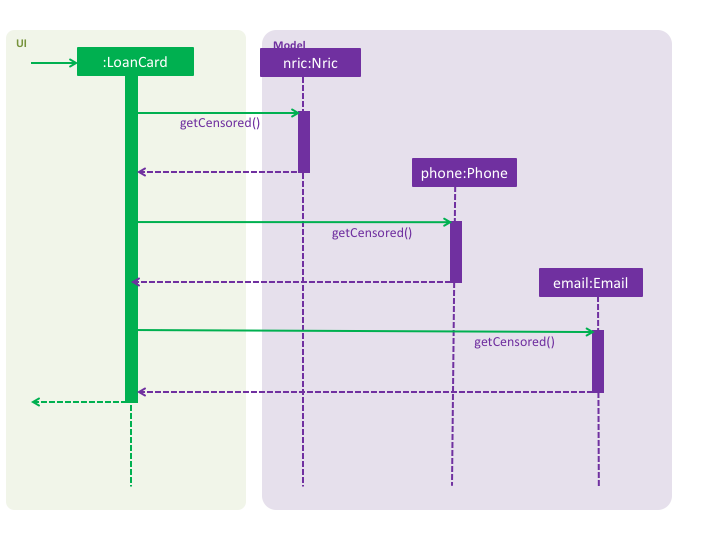
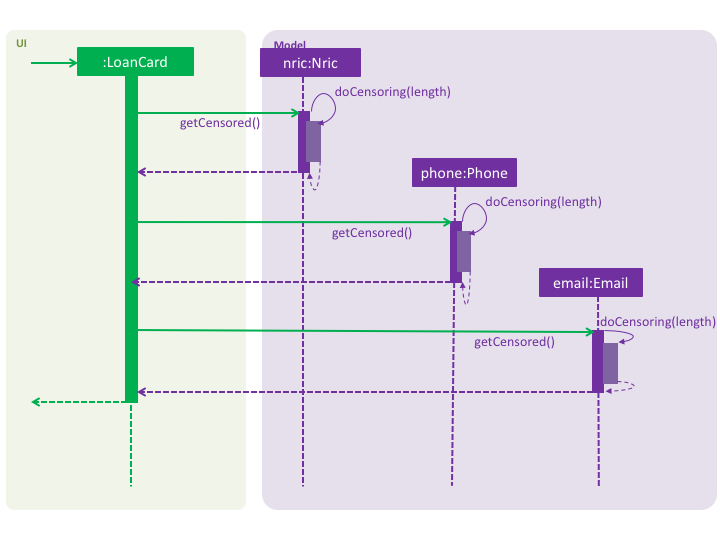
Rebuild pages at 4e5076023cf2ac85eae762c53f6b8986080c0df9

diff --git a/DeveloperGuide.html b/DeveloperGuide.html
@@ -1415,10 +1415,19 @@ Example: The customer&#8217;s <code>Nric</code> as stored in the database is <co
 <p><code>Nric#getCensored()</code>&#8201;&#8212;&#8201;censor the Nric value and hide the first five digital numbers. Then it returns the censored String.</p>
 </li>
 <li>
+<p><code>Nric#doCensoring(int length)</code>&#8201;&#8212;&#8201;Take in the length of the Nric String and return the censored part ("x" part) according to the length.</p>
+</li>
+<li>
 <p><code>Phone#getCensored()</code>&#8201;&#8212;&#8201;censor the phone number and hide the first five digital numbers. Then it returns the censored String.</p>
 </li>
 <li>
+<p><code>Phone#doCensoring(int length)</code>&#8201;&#8212;&#8201;Take in the length of the Phone String and return the censored part ("x" part) according to the length.</p>
+</li>
+<li>
 <p><code>Email#getCensored()</code>&#8201;&#8212;&#8201;censor the email address and hide every characters except the last two characters in the local-part and the domain.</p>
+</li>
+<li>
+<p><code>Email#doCensoring(int length)</code>&#8201;&#8212;&#8201;Take in the length of the Email String and return the censored part ("x" part) according to the length.</p>
 </li>
 </ul>
 </div>
@@ -1435,6 +1444,7 @@ For example: <code>name.setText(loan.getName().value);</code> will directly assi
 </div>
 <div class="paragraph">
 <p>However, the values of <code>Nric</code>, <code>Phone</code> and <code>Email</code> need censoring before assigning their values, so they will call their own <code>getCensored()</code> method in their class.<br>
+<code>getCensored()</code> in each of these class will call their corresponding <code>doCensoring(int)</code> method. Then combine the censored part and remain part and return.<br>
 For example: <code>phone.setText(loan.getPhone().getCensored().value);</code> will censor the value of the phone String of this loan and then assign the censored value to the <code>phone</code> label.</p>
 </div>
 <div class="paragraph">
@@ -1449,7 +1459,7 @@ For example: <code>phone.setText(loan.getPhone().getCensored().value);</code> wi
 <div class="sect3">
 <h4 id="design-considerations-5"><a class="link" href="#design-considerations-5">3.8.2. Design Considerations</a></h4>
 <div class="paragraph">
-<p><strong>Aspect: How to execute getCensored()</strong></p>
+<p><strong>Aspect: How to execute getCensored() and doCensoring(int)</strong></p>
 </div>
 <div class="ulist">
 <ul>
@@ -2603,4 +2613,4 @@ Expected: Similar to previous.</p>
 </div>
 </div>
 </div>
-</div></div><div id="footer"><div class="container"><div id="footer-text">Last updated 2018-10-25 10:19:09 UTC</div></div></div></body></html>
+</div></div><div id="footer"><div class="container"><div id="footer-text">Last updated 2018-10-25 11:33:35 UTC</div></div></div></body></html>

diff --git a/team/Xiaohang.html b/team/Xiaohang.html
@@ -544,4 +544,4 @@ If the <code>currentStatePointer</code> is at index <code>loanBookStateList.size
 <p><em>{Optionally, you may include other projects in your portfolio.}</em></p>
 </div>
 </div>
-</div></div><div id="footer"><div class="container"><div id="footer-text">Last updated 2018-10-25 10:19:09 UTC</div></div></div></body></html>
+</div></div><div id="footer"><div class="container"><div id="footer-text">Last updated 2018-10-25 11:33:35 UTC</div></div></div></body></html>

diff --git a/team/fongyuan.html b/team/fongyuan.html
@@ -550,4 +550,4 @@ If the <code>currentStatePointer</code> is at index <code>loanBookStateList.size
 <p><em>{Optionally, you may include other projects in your portfolio.}</em></p>
 </div>
 </div>
-</div></div><div id="footer"><div class="container"><div id="footer-text">Last updated 2018-10-25 10:19:09 UTC</div></div></div></body></html>
+</div></div><div id="footer"><div class="container"><div id="footer-text">Last updated 2018-10-25 11:33:35 UTC</div></div></div></body></html>

diff --git a/team/johndoe.html b/team/johndoe.html
@@ -446,4 +446,4 @@ If the <code>currentStatePointer</code> is at index <code>loanBookStateList.size
 <p><em>{Optionally, you may include other projects in your portfolio.}</em></p>
 </div>
 </div>
-</div></div><div id="footer"><div class="container"><div id="footer-text">Last updated 2018-10-25 10:19:09 UTC</div></div></div></body></html>
+</div></div><div id="footer"><div class="container"><div id="footer-text">Last updated 2018-10-25 11:33:35 UTC</div></div></div></body></html>

diff --git a/team/weineng.html b/team/weineng.html
@@ -446,4 +446,4 @@ If the <code>currentStatePointer</code> is at index <code>loanBookStateList.size
 <p><em>{Optionally, you may include other projects in your portfolio.}</em></p>
 </div>
 </div>
-</div></div><div id="footer"><div class="container"><div id="footer-text">Last updated 2018-10-25 10:19:09 UTC</div></div></div></body></html>
+</div></div><div id="footer"><div class="container"><div id="footer-text">Last updated 2018-10-25 11:33:35 UTC</div></div></div></body></html>

diff --git a/ContactUs.html b/ContactUs.html
@@ -12,4 +12,4 @@
 <p><strong>Email us</strong> : You can also reach us at <code>weineng [at] comp.nus.edu.sg</code></p>
 </li>
 </ul>
-</div></div><div id="footer"><div class="container"><div id="footer-text">Last updated 2018-10-25 10:19:09 UTC</div></div></div></body></html>
+</div></div><div id="footer"><div class="container"><div id="footer-text">Last updated 2018-10-25 11:33:35 UTC</div></div></div></body></html>

diff --git a/LearningOutcomes.html b/LearningOutcomes.html
@@ -542,4 +542,4 @@ class gives some examples of how to use <em>Equivalence Partitions</em>, <em>Bou
 </div>
 </div>
 </div>
-</div></div><div id="footer"><div class="container"><div id="footer-text">Last updated 2018-10-25 10:19:09 UTC</div></div></div></body></html>
+</div></div><div id="footer"><div class="container"><div id="footer-text">Last updated 2018-10-25 11:33:35 UTC</div></div></div></body></html>

diff --git a/UsingGradle.html b/UsingGradle.html
@@ -255,4 +255,4 @@ See <code>build.gradle</code> &#8594; <code>allprojects</code> &#8594; <code>dep
 </ul>
 </div>
 </div>
-</div></div><div id="footer"><div class="container"><div id="footer-text">Last updated 2018-10-25 10:19:09 UTC</div></div></div></body></html>
+</div></div><div id="footer"><div class="container"><div id="footer-text">Last updated 2018-10-25 11:33:35 UTC</div></div></div></body></html>

diff --git a/UsingNetlify.html b/UsingNetlify.html
@@ -123,4 +123,4 @@ The publish directory is the directory in which the built HTML documentation res
 </ol>
 </div>
 </div>
-</div></div><div id="footer"><div class="container"><div id="footer-text">Last updated 2018-10-25 10:19:09 UTC</div></div></div></body></html>
+</div></div><div id="footer"><div class="container"><div id="footer-text">Last updated 2018-10-25 11:33:35 UTC</div></div></div></body></html>

diff --git a/UsingCoveralls.html b/UsingCoveralls.html
@@ -96,4 +96,4 @@ If you have not set up Travis CI, see <a href="UsingTravis.html">UsingTravis.ado
 </ol>
 </div>
 </div>
-</div></div><div id="footer"><div class="container"><div id="footer-text">Last updated 2018-10-25 10:19:09 UTC</div></div></div></body></html>
+</div></div><div id="footer"><div class="container"><div id="footer-text">Last updated 2018-10-25 11:33:35 UTC</div></div></div></body></html>

diff --git a/UsingTravis.html b/UsingTravis.html
@@ -280,4 +280,4 @@ Suggested change: Remove the codacy badge from <code>README</code>.</p>
 </div>
 </div>
 </div>
-</div></div><div id="footer"><div class="container"><div id="footer-text">Last updated 2018-10-25 10:19:09 UTC</div></div></div></body></html>
+</div></div><div id="footer"><div class="container"><div id="footer-text">Last updated 2018-10-25 11:33:35 UTC</div></div></div></body></html>

diff --git a/UsingCheckstyle.html b/UsingCheckstyle.html
@@ -91,4 +91,4 @@ Restart the IDE to complete the installation.</p>
 </ul>
 </div>
 </div>
-</div></div><div id="footer"><div class="container"><div id="footer-text">Last updated 2018-10-25 10:19:09 UTC</div></div></div></body></html>
+</div></div><div id="footer"><div class="container"><div id="footer-text">Last updated 2018-10-25 11:33:35 UTC</div></div></div></body></html>
